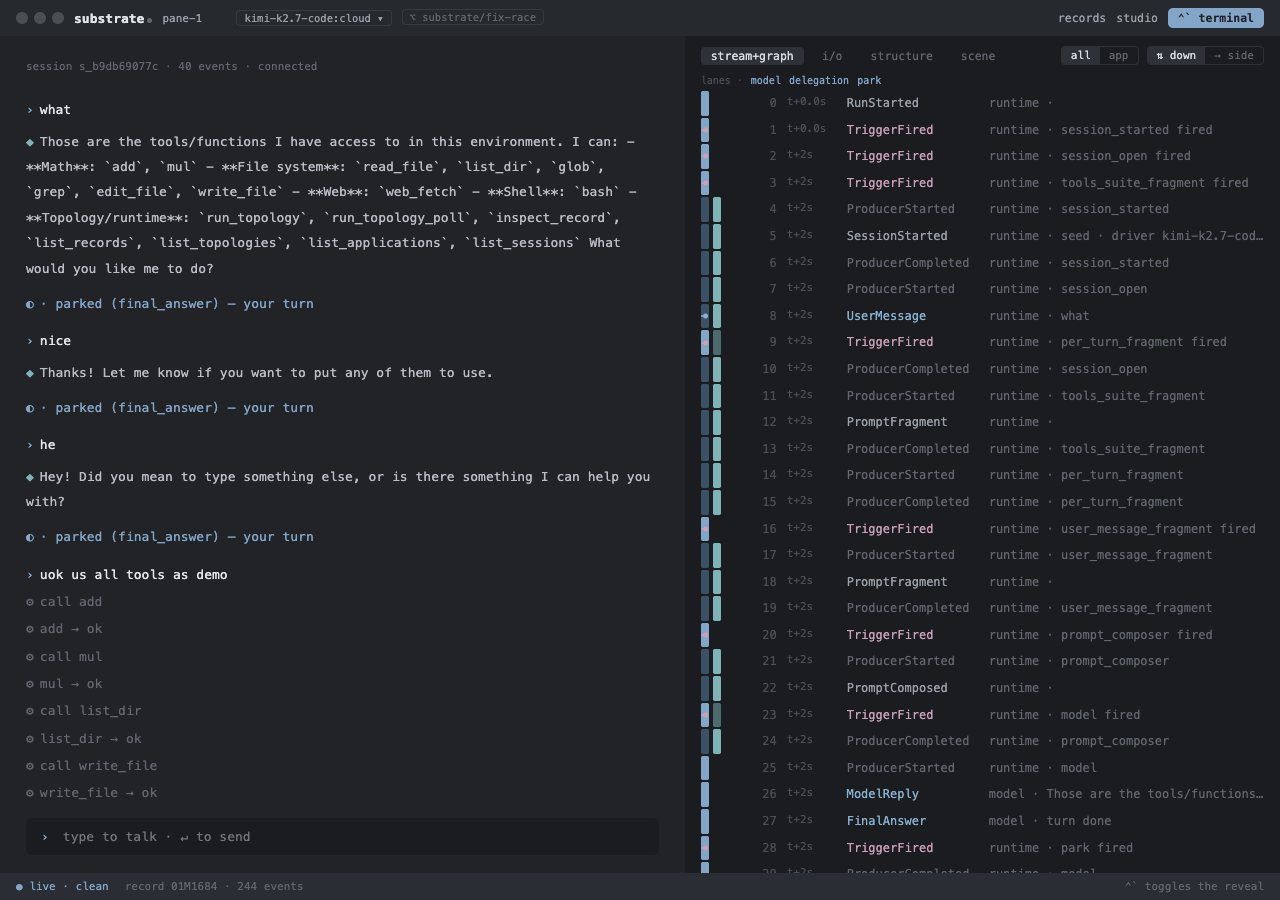
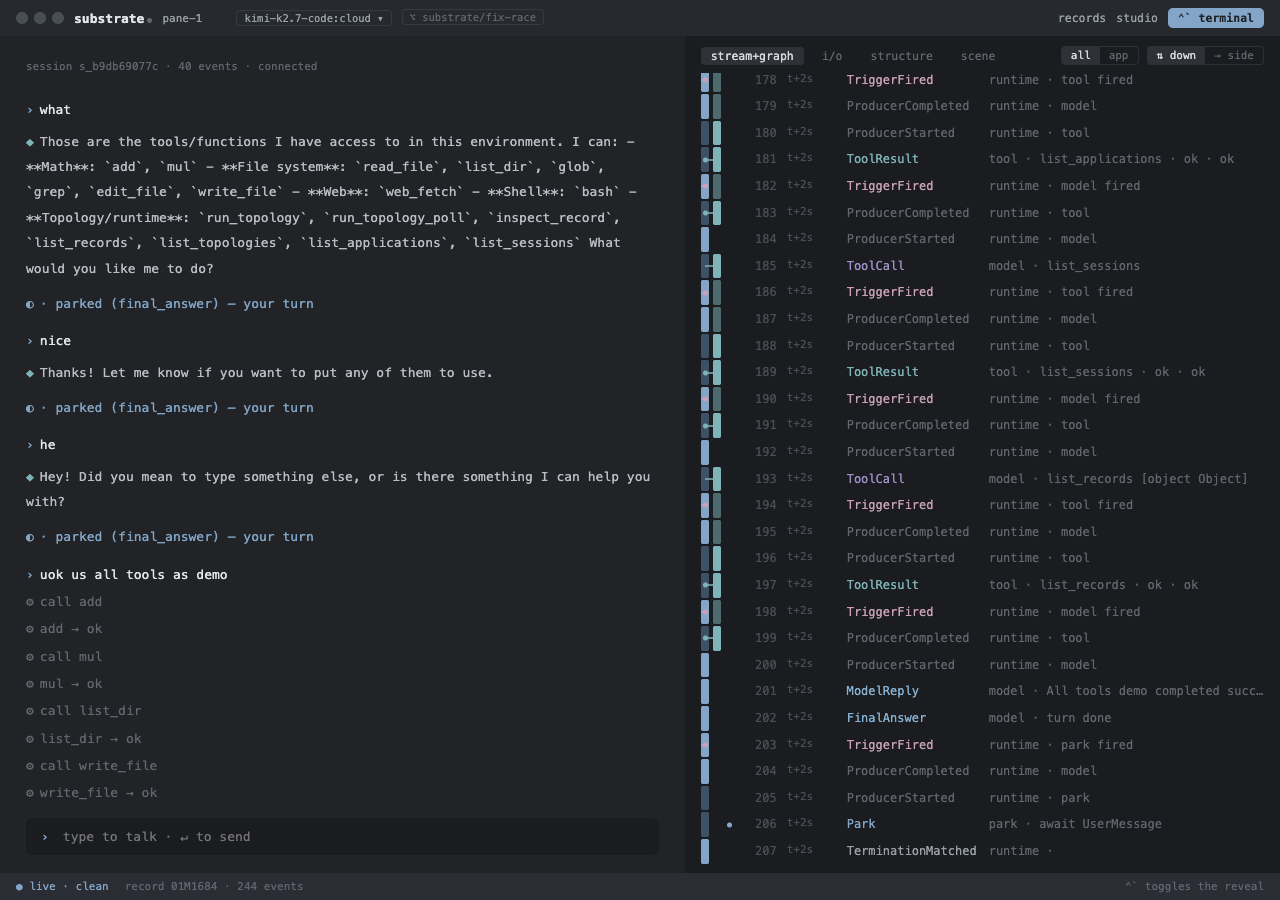
phase 4z15: tool_loop shape applied holistically. Park is a wait-span (TriggerFired starts=park → next UserMessage), not a producer activation — no persistent gray bar past the first park. Every non-model ProducerCompleted draws its delegation→model return arrow, matching ToolCall/ToolResult.

diff --git a/web/reveal.html b/web/reveal.html
@@ -1042,27 +1042,33 @@ class Component extends DCLogic {
       });
     }
     const _calls = {};
-    const _producerStarts = {}; // instance → {seq, kind}
+    const _producerStarts = {}; // instance → {seq, kind} — non-park only
+    // Park is a wait-shape, not a producer activation. It opens at
+    // TriggerFired(starts=park) and closes at the next UserMessage —
+    // same round trip as ToolCall → ToolResult on the delegation lane.
+    let _parkOpen = null;
     EV.forEach(e => {
-      if (e.kind === 'ProducerStarted' && e.producerInstance && e.payload && e.payload.kind) {
+      if (e.kind === 'ProducerStarted' && e.producerInstance && e.payload && e.payload.kind && e.payload.kind !== 'park') {
         _producerStarts[e.producerInstance] = { seq: e.seq, kind: e.payload.kind };
       }
       if (e.kind === 'ProducerCompleted' && e.producerInstance && _producerStarts[e.producerInstance]) {
         const started = _producerStarts[e.producerInstance];
         delete _producerStarts[e.producerInstance];
         if (started.kind === 'model') return; // model owns its own lane
-        const bucket = started.kind === 'park' ? 'park' : 'delegation';
-        // Colors: delegate tool is violet; every other non-model
-        // producer is teal for its dark/bright pair. Park keeps the
-        // steel blue used elsewhere.
-        const color = bucket === 'park' ? '#3d5166' : '#4d6b6e';
-        const bright = bucket === 'park' ? '#82a5c8' : '#7fb3b8';
-        spansByKind[bucket].push({ start: started.seq, end: e.seq, color, bright, kind: started.kind });
+        spansByKind.delegation.push({
+          start: started.seq, end: e.seq,
+          color: '#4d6b6e', bright: '#7fb3b8', kind: started.kind,
+        });
+      }
+      if (e.kind === 'TriggerFired' && e.payload && e.payload.starts === 'park' && _parkOpen === null) {
+        _parkOpen = e.seq;
+      }
+      if (e.kind === 'UserMessage' && _parkOpen !== null) {
+        spansByKind.park.push({ start: _parkOpen, end: e.seq, color: '#3d5166', bright: '#82a5c8', kind: 'park' });
+        _parkOpen = null;
       }
       if (e.kind === 'ToolCall') _calls[e.payload.call_id] = { start: e.seq, tool: e.payload.tool };
       if (e.kind === 'ToolResult') {
-        // A tool_loop delegate spans violet on the delegation lane;
-        // other tools share the delegation lane in their own color.
         const c = _calls[e.payload.call_id];
         if (c) spansByKind.delegation.push({
           start: c.start, end: e.seq,
@@ -1072,13 +1078,16 @@ class Component extends DCLogic {
         });
       }
     });
-    // Live producers still open — draw their span out to the last
-    // envelope so the graph shows the leading edge.
+    // Live delegation producers still open — leading edge to last seq.
+    // Park deliberately excluded: an unterminated park stays a dot,
+    // not a bar smeared across the rest of the session.
     for (const inst of Object.keys(_producerStarts)) {
       const st = _producerStarts[inst];
       if (st.kind === 'model') continue;
-      const bucket = st.kind === 'park' ? 'park' : 'delegation';
-      spansByKind[bucket].push({ start: st.seq, end: _lastSeq, color: '#3d5166', bright: '#82a5c8', kind: st.kind });
+      spansByKind.delegation.push({ start: st.seq, end: _lastSeq, color: '#4d6b6e', bright: '#7fb3b8', kind: st.kind });
+    }
+    if (_parkOpen !== null) {
+      spansByKind.park.push({ start: _parkOpen, end: _parkOpen, color: '#3d5166', bright: '#82a5c8', kind: 'park' });
     }
     // Fixed three-lane shape: model / delegation / park. No sub-track
     // packing — overlapping delegation or park spans stack in the
@@ -1111,38 +1120,64 @@ class Component extends DCLogic {
     // TriggerFired / UserMessage = runtime stub into the lane it starts.
     const laneIdx = {}; laneDefs.forEach((ld, i) => { if (laneIdx[ld.kind] === undefined) laneIdx[ld.kind] = i; });
     const cx = (i) => i * 12 + 4;
+    // Which UserMessage seqs close an open park? Precomputed so the
+    // return arrow can render on that row.
+    const _closesPark = new Set(spansByKind.park.map(sp => sp.end).filter(s => s !== undefined));
     const connFor = (e) => {
-      // ToolCall = model → delegation arrow.
+      // ToolCall = model → delegation. Dot lands on the delegation lane.
       if (e.kind === 'ToolCall') {
         const a = cx(laneIdx.model), b = cx(laneIdx.delegation);
         return { c: e.payload.tool === 'delegate' ? '#a08fc9' : '#7fb3b8', l: Math.min(a, b), w: Math.abs(b - a), dot: b };
       }
-      // ToolResult = delegation → model arrow (return).
+      // ToolResult = delegation → model return.
       if (e.kind === 'ToolResult') {
         const a = cx(laneIdx.delegation), b = cx(laneIdx.model);
         return { c: '#7fb3b8', l: Math.min(a, b), w: Math.abs(b - a), dot: b };
       }
-      // TriggerFired = runtime stub into the started lane.
+      // TriggerFired(starts=park) = model → park (tool_loop shape).
+      // Every other TriggerFired keeps the runtime-stub arrow.
       if (e.kind === 'TriggerFired') {
         const starts = e.payload && e.payload.starts;
-        const laneName = starts === 'park' ? 'park' : (starts && starts !== 'model') ? 'delegation' : 'model';
+        if (starts === 'park') {
+          const a = cx(laneIdx.model), b = cx(laneIdx.park);
+          return { c: '#82a5c8', l: Math.min(a, b), w: Math.abs(b - a), dot: b };
+        }
+        const laneName = (starts && starts !== 'model') ? 'delegation' : 'model';
         const b = cx(laneIdx[laneName]);
         return { c: '#c9a0b8', l: 0, w: b, dot: b };
       }
-      // UserMessage = user → model arrow (reverse tool call shape).
+      // UserMessage closing a park = park → model return arrow.
+      // A UserMessage with no open park is the user → model stub.
       if (e.kind === 'UserMessage') {
+        if (_closesPark.has(e.seq)) {
+          const a = cx(laneIdx.park), b = cx(laneIdx.model);
+          return { c: '#82a5c8', l: Math.min(a, b), w: Math.abs(b - a), dot: b };
+        }
         const b = cx(laneIdx.model);
         return { c: '#88b0d0', l: 0, w: b, dot: b };
+      }
+      // ProducerCompleted for a non-model producer = delegation → model
+      // return arrow. Model's own ProducerCompleted stays a lifeline dot.
+      if (e.kind === 'ProducerCompleted') {
+        const pkind = (e.payload && e.payload.kind) || '';
+        if (pkind && pkind !== 'model' && pkind !== 'park') {
+          const a = cx(laneIdx.delegation), b = cx(laneIdx.model);
+          return { c: '#7fb3b8', l: Math.min(a, b), w: Math.abs(b - a), dot: b };
+        }
+        const b = cx(laneIdx.model);
+        return { c: '#82a5c8', l: b, w: 0, dot: b };
       }
       // FinalAnswer, SessionEnded = moments on the model lifeline.
       if (e.kind === 'FinalAnswer' || e.kind === 'SessionEnded') {
         const b = cx(laneIdx.model);
         return { c: '#82a5c8', l: 0, w: b, dot: b };
       }
-      // Park = the park producer returning to the park lane.
+      // Park envelope = the await moment inside the open park span.
+      // Dot only, no line — the arrow lives on TriggerFired and on the
+      // UserMessage that closes it.
       if (e.kind === 'Park') {
         const b = cx(laneIdx.park);
-        return { c: '#82a5c8', l: 0, w: b, dot: b };
+        return { c: '#82a5c8', l: b, w: 0, dot: b };
       }
       return null;
     };
